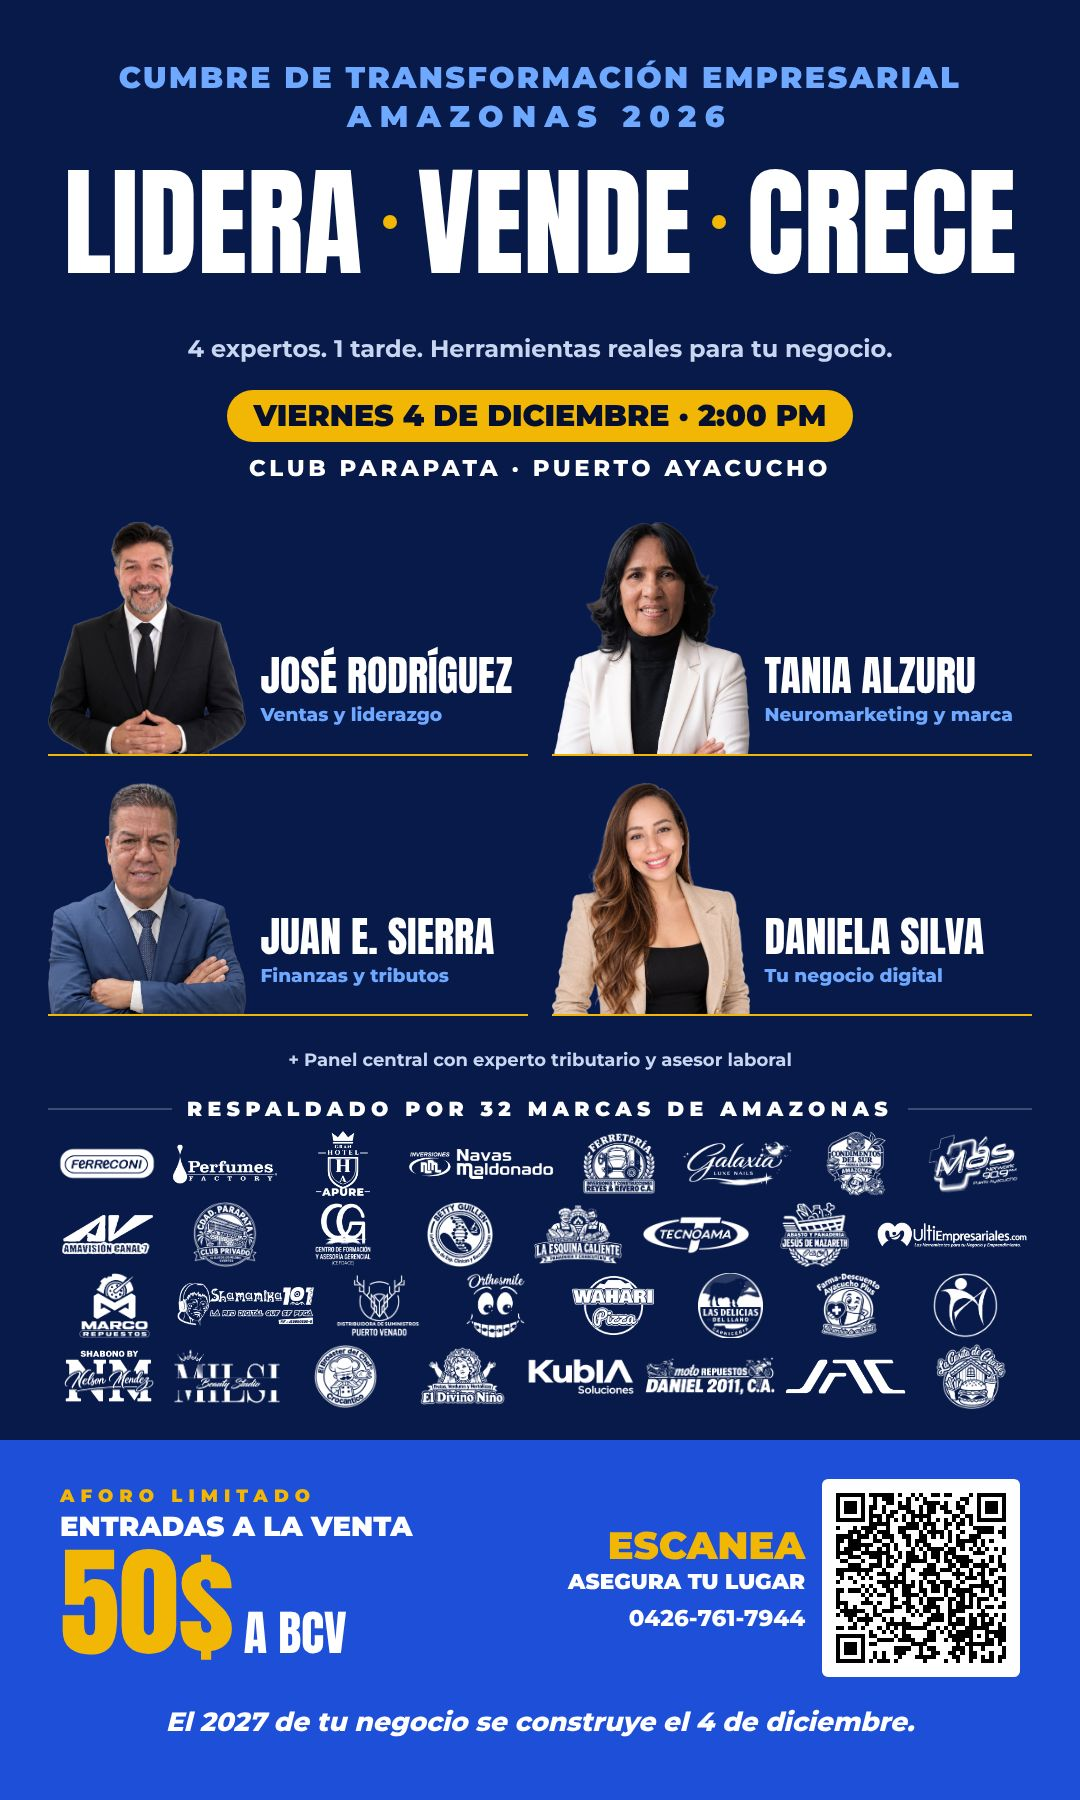
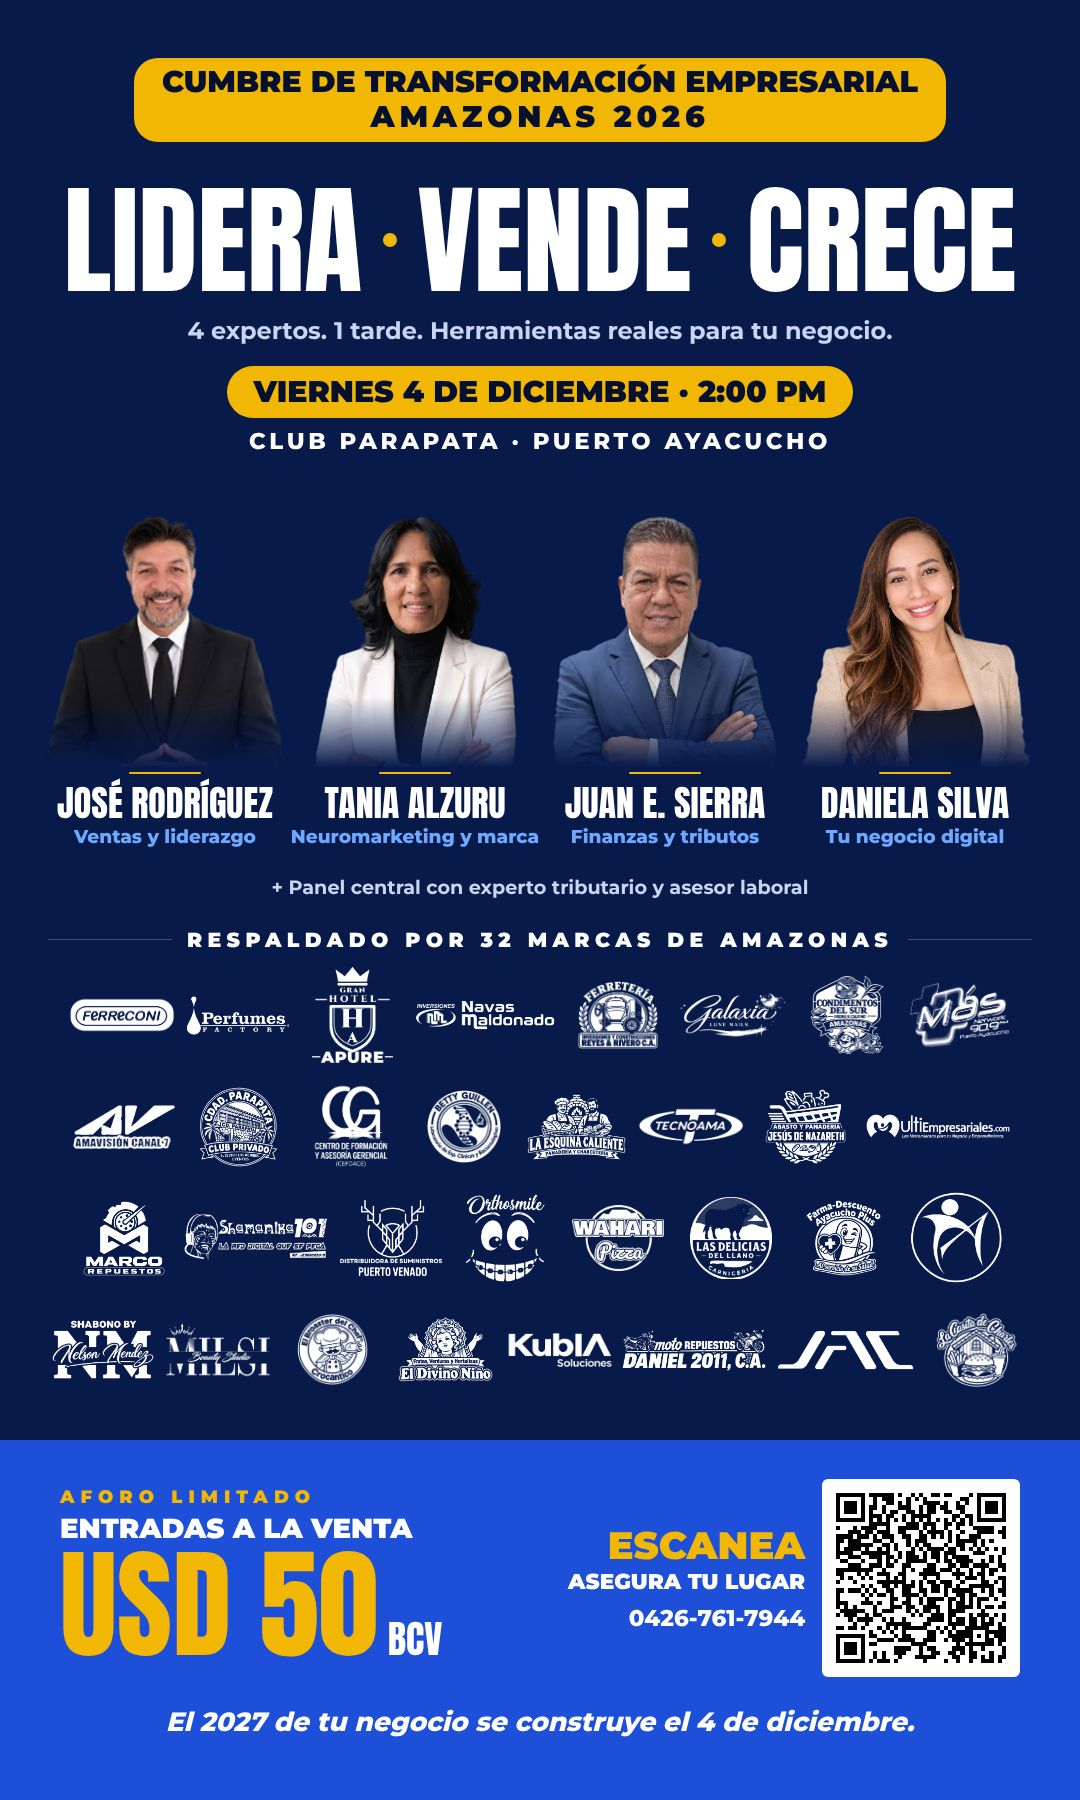
feat(pendón): versión B con recortes sin halo y nombres centrados; precio USD 50 BCV en ambas versiones
Claude-Session: https://claude.ai/code/session_01QsWqbeeNspL7vUpqZXuytH

Changed region(s): [[0.0306, 0.0311, 0.9472, 0.8089], [0.0306, 0.8089, 0.4278, 0.9333], [0.0306, 0.3733, 0.0611, 0.4044]]

diff --git a/producciones/pendon-cumbre/src/PendonPregunta.tsx b/producciones/pendon-cumbre/src/PendonPregunta.tsx
@@ -25,21 +25,21 @@ const T: React.FC<{s: number; f?: string; p?: number; c?: string; ls?: number; s
 const centro = (top: number, children: React.ReactNode) => <div style={{position: 'absolute', left: 0, right: 0, top, display: 'flex', flexDirection: 'column', alignItems: 'center'}}>{children}</div>;
 const NOCHE = '#050F2E';
 const PONENTES = [
-	{nombre: 'JOSÉ RODRÍGUEZ', tema: 'Ventas y liderazgo', foto: 'img/jose-recorte.png'},
-	{nombre: 'TANIA ALZURU', tema: 'Neuromarketing y marca', foto: 'img/tania-recorte.png'},
-	{nombre: 'JUAN E. SIERRA', tema: 'Finanzas y tributos', foto: 'img/juan-recorte.png'},
-	{nombre: 'DANIELA SILVA', tema: 'Tu negocio digital', foto: 'img/daniela-recorte.png'},
+	{nombre: 'JOSÉ RODRÍGUEZ', tema: 'Ventas y liderazgo', foto: 'img/jose-oscuro.png', w: 400},
+	{nombre: 'TANIA ALZURU', tema: 'Neuromarketing y marca', foto: 'img/tania-oscuro.png', w: 340},
+	{nombre: 'JUAN E. SIERRA', tema: 'Finanzas y tributos', foto: 'img/juan-oscuro.png', w: 372},
+	{nombre: 'DANIELA SILVA', tema: 'Tu negocio digital', foto: 'img/daniela-oscuro.png', w: 390},
 ];
-// Recorte directo sobre el azul, sin arco ni caja; la base de la foto se apoya en un filete dorado.
-const Tarjeta: React.FC<{r: typeof PONENTES[number]}> = ({r}) => (
-	<div style={{width: 800, height: 400, display: 'flex', alignItems: 'flex-end', gap: 24, borderBottom: `4px solid ${C.oro}`}}>
-		<div style={{width: 330, height: 396, flexShrink: 0, overflow: 'hidden', display: 'flex', justifyContent: 'center', alignItems: 'flex-start'}}>
-			<Img src={staticFile(r.foto)} style={{width: 330, height: 'auto', display: 'block', marginTop: 10}} />
+// Recortes sin halo (public/img/*-oscuro.png) y la base de la foto se funde con el azul, sin corte seco.
+const Ponente: React.FC<{p: typeof PONENTES[number]}> = ({p}) => (
+	<div style={{width: 410, display: 'flex', flexDirection: 'column', alignItems: 'center'}}>
+		<div style={{width: 410, height: 420, overflow: 'hidden', display: 'flex', justifyContent: 'center', alignItems: 'flex-start',
+			WebkitMaskImage: 'linear-gradient(180deg, #000 72%, transparent 100%)', maskImage: 'linear-gradient(180deg, #000 72%, transparent 100%)'}}>
+			<Img src={staticFile(p.foto)} style={{width: p.w, height: 'auto', display: 'block', flexShrink: 0}} />
 		</div>
-		<div style={{paddingBottom: 46, display: 'flex', flexDirection: 'column', gap: 10}}>
-			<div style={{fontFamily: F.titulo, fontSize: 70, color: '#FFFFFF', lineHeight: 1}}>{r.nombre}</div>
-			<div style={{fontFamily: F.texto, fontWeight: 800, fontSize: 31, color: C.celeste, whiteSpace: 'nowrap'}}>{r.tema}</div>
-		</div>
+		<div style={{width: 120, height: 4, background: C.oro, borderRadius: 2, marginTop: 6}} />
+		<T s={60} f={F.titulo} p={400} c="#FFFFFF" style={{marginTop: 16, whiteSpace: 'nowrap'}}>{p.nombre}</T>
+		<T s={31} p={800} c={C.celeste} style={{marginTop: 8, whiteSpace: 'nowrap'}}>{p.tema}</T>
 	</div>
 );
 const FILAS = [
@@ -48,12 +48,12 @@ const FILAS = [
 	['marco', 'shamanika', 'puerto-venado', 'orthosmile', 'wahari', 'delicias', 'farma', 'tania'],
 	['shabono', 'milsi', 'broaster', 'divino-nino', 'kubia', 'moto-daniel', 'jac', 'casita'],
 ];
-const CW = 196, CH = 118, PESO = 0.6 * CW * CH;
+const CW = 188, CH = 186, PESO = 0.6 * 196 * 150;
 const Logo: React.FC<{l: string}> = ({l}) => {
 	const {r, tinta} = (LOGOS as Record<string, {r: number; tinta: number}>)[l];
 	const A = PESO * Math.pow(0.35 / Math.max(0.12, tinta), 0.55);
 	let w = Math.sqrt(A * r), h = Math.sqrt(A / r);
-	const k = Math.min(1, (r > 3 ? 250 : 184) / w, 108 / h); w *= k; h *= k;
+	const k = Math.min(1, (r > 3 ? 240 : 180) / w, 160 / h); w *= k; h *= k;
 	return <div style={{width: Math.max(CW, w + 14), height: CH, display: 'flex', alignItems: 'center', justifyContent: 'center'}}><Img src={staticFile(`patroBlanco/${l}.png`)} style={{width: w, height: h, display: 'block'}} /></div>;
 };
 
@@ -61,11 +61,13 @@ export const PendonPregunta: React.FC = () => {
 	useFuentes();
 	return (
 		<AbsoluteFill style={{background: C.marino}}>
-			{centro(104, <>
-				<T s={50} p={900} c={C.celeste} ls={4}>CUMBRE DE TRANSFORMACIÓN EMPRESARIAL</T>
-				<T s={50} p={900} c={C.celeste} ls={14} style={{marginTop: 10}}>AMAZONAS 2026</T>
+			{centro(96, <>
+				<div style={{background: C.oro, borderRadius: 40, padding: '14px 46px'}}>
+					<T s={50} p={900} c={NOCHE}>CUMBRE DE TRANSFORMACIÓN EMPRESARIAL</T>
+					<T s={50} p={900} c={NOCHE} ls={8} style={{marginTop: 4}}>AMAZONAS 2026</T>
+				</div>
 			</>)}
-			{centro(270, <div style={{display: 'flex', alignItems: 'center', gap: 34}}>
+			{centro(300, <div style={{display: 'flex', alignItems: 'center', gap: 34}}>
 				{['LIDERA', 'VENDE', 'CRECE'].map((w, i) => (
 					<React.Fragment key={w}>
 						{i > 0 && <div style={{width: 24, height: 24, borderRadius: 24, background: C.oro}} />}
@@ -73,18 +75,18 @@ export const PendonPregunta: React.FC = () => {
 					</React.Fragment>
 				))}
 			</div>)}
-			{centro(560, <T s={40} p={700} c="#C9D6F2">4 expertos. 1 tarde. Herramientas reales para tu negocio.</T>)}
-			{centro(650, <div style={{display: 'flex', gap: 18, alignItems: 'center', background: C.oro, borderRadius: 60, padding: '16px 44px'}}>
+			{centro(530, <T s={40} p={700} c="#C9D6F2">4 expertos. 1 tarde. Herramientas reales para tu negocio.</T>)}
+			{centro(610, <div style={{display: 'flex', gap: 18, alignItems: 'center', background: C.oro, borderRadius: 60, padding: '16px 44px'}}>
 				<T s={50} p={900} c={NOCHE}>VIERNES 4 DE DICIEMBRE · 2:00 PM</T>
 			</div>)}
-			{centro(760, <T s={38} p={800} c="#FFFFFF" ls={6}>CLUB PARAPATA · PUERTO AYACUCHO</T>)}
+			{centro(715, <T s={38} p={800} c="#FFFFFF" ls={6}>CLUB PARAPATA · PUERTO AYACUCHO</T>)}
 			{/* LAS RESPUESTAS */}
-			<div style={{position: 'absolute', left: 80, right: 80, top: 860, display: 'flex', flexWrap: 'wrap', justifyContent: 'space-between', rowGap: 34}}>
-				{PONENTES.map((r) => <Tarjeta key={r.nombre} r={r} />)}
+			<div style={{position: 'absolute', left: 70, right: 70, top: 860, display: 'flex', justifyContent: 'space-between'}}>
+				{PONENTES.map((p) => <Ponente key={p.nombre} p={p} />)}
 			</div>
-			{centro(1752, <T s={30} p={700} c="#C9D6F2">+ Panel central con experto tributario y asesor laboral </T>)}
+			{centro(1462, <T s={32} p={700} c="#C9D6F2">+ Panel central con experto tributario y asesor laboral </T>)}
 			{/* RESPALDO */}
-			{centro(1830, <>
+			{centro(1548, <>
 				<div style={{display: 'flex', alignItems: 'center', gap: 24, width: 1640}}>
 					<div style={{flex: 1, height: 2, background: 'rgba(255,255,255,0.22)'}} />
 					<T s={34} p={900} c="#FFFFFF" ls={9}>RESPALDADO POR 32 MARCAS DE AMAZONAS</T>
@@ -99,8 +101,8 @@ export const PendonPregunta: React.FC = () => {
 					<T s={30} p={900} c={C.oro} ls={10}>AFORO LIMITADO</T>
 					<T s={46} p={900} c="#FFFFFF" style={{marginTop: 10}}>ENTRADAS A LA VENTA</T>
 					<div style={{display: 'flex', alignItems: 'baseline', gap: 16}}>
-						<div style={{fontFamily: F.titulo, fontSize: 200, lineHeight: 1, color: C.oro}}>50$</div>
-						<div style={{fontFamily: F.titulo, fontSize: 80, color: '#FFFFFF'}}>A BCV</div>
+						<div style={{fontFamily: F.titulo, fontSize: 200, lineHeight: 1, color: C.oro}}>USD 50</div>
+						<div style={{fontFamily: F.titulo, fontSize: 64, color: '#FFFFFF'}}>BCV</div>
 					</div>
 				</div>
 				<div style={{display: 'flex', alignItems: 'center', gap: 28}}>

diff --git a/producciones/pendon-cumbre/src/PendonMarino.tsx b/producciones/pendon-cumbre/src/PendonMarino.tsx
@@ -122,8 +122,8 @@ export const PendonMarino: React.FC = () => {
 					<T s={30} p={900} c={C.oro} ls={10}>AFORO LIMITADO</T>
 					<T s={44} p={900} c="#FFFFFF" ls={2} style={{marginTop: 14}}>ENTRADAS A LA VENTA</T>
 					<div style={{display: 'flex', alignItems: 'baseline', gap: 18, marginTop: 4}}>
-						<div style={{fontFamily: F.titulo, fontSize: 168, lineHeight: 1, color: C.oro}}>50$</div>
-						<div style={{fontFamily: F.titulo, fontSize: 76, lineHeight: 1, color: '#FFFFFF'}}>A BCV</div>
+						<div style={{fontFamily: F.titulo, fontSize: 168, lineHeight: 1, color: C.oro}}>USD 50</div>
+						<div style={{fontFamily: F.titulo, fontSize: 60, lineHeight: 1, color: '#FFFFFF'}}>BCV</div>
 					</div>
 				</div>
 				<div style={{display: 'flex', alignItems: 'center', gap: 30}}>
